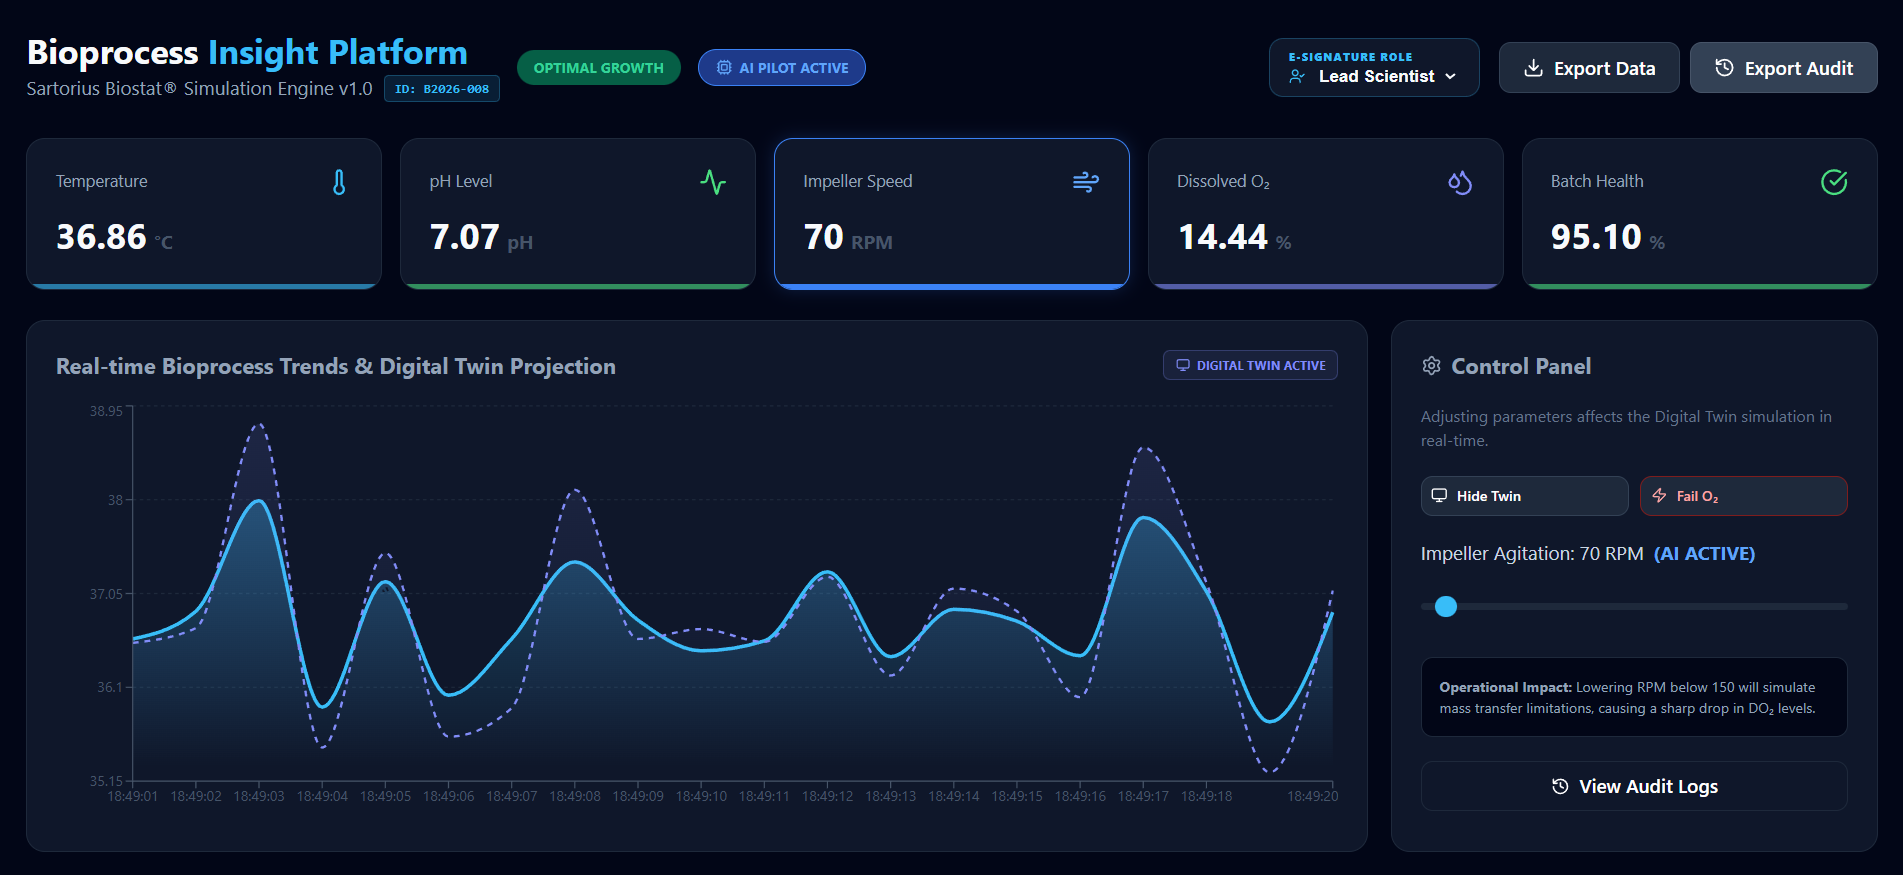
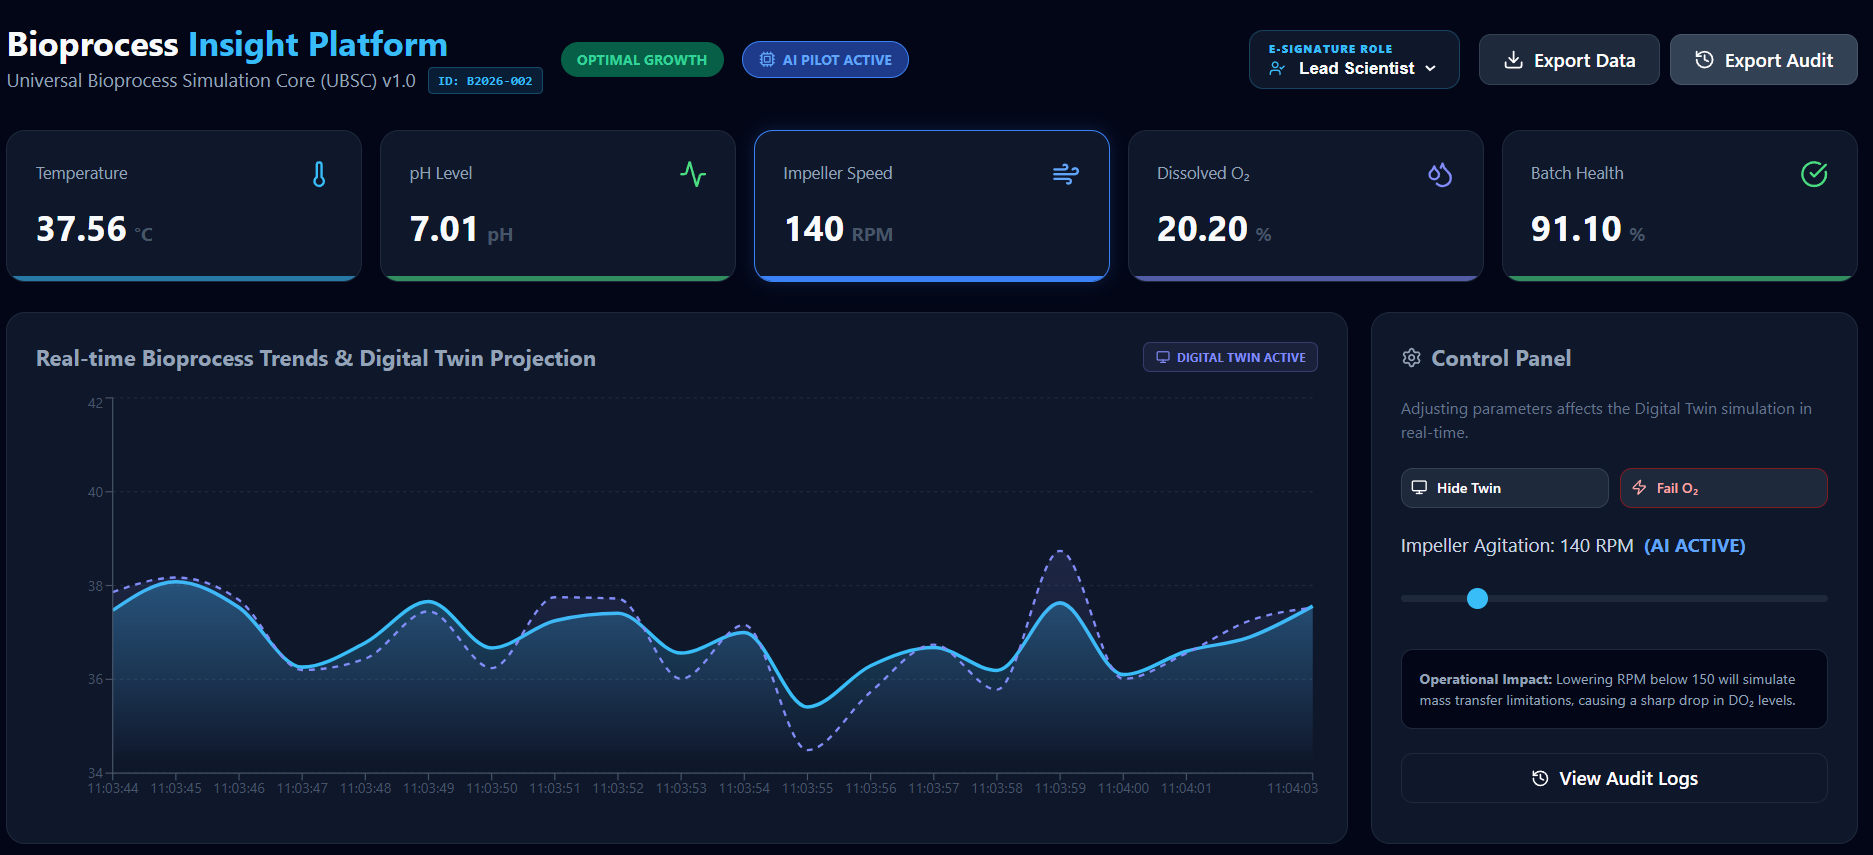
Refactor: Updated branding to UBSC v1.0

diff --git a/frontend/src/App.tsx b/frontend/src/App.tsx
@@ -199,7 +199,13 @@ function App() {
               Bioprocess <span style={{ color: '#38bdf8' }}>Insight Platform</span>
             </h1>
             <div style={{ display: 'flex', alignItems: 'center', gap: '10px', marginTop: '4px' }}>
-              <p style={{ color: '#94a3b8', margin: 0 }}>Sartorius Biostat® Simulation Engine v1.0</p>
+              <p style={{ color: '#94a3b8', margin: 0 }}>Universal Bioprocess Simulation Core (UBSC) v1.0</p>
+                {/** * UBSC ENGINE v1.0
+                * ---------------------------------------------------------
+                * A vendor-agnostic HMI (Human Machine Interface) designed 
+                * for real-time bioprocess monitoring and digital twin 
+                * projection. Integrates GxP-compliant audit logging.
+                */}
               {/* BATCH IDENTIFIER: Dynamically displays the current production run ID */}
               {latest?.batch_id && (
                 <span style={{ 

diff --git a/README.md b/README.md
@@ -3,7 +3,7 @@
 **A Real-time Bioreactor Monitoring Dashboard for Industrial Fermentation**
 
 ## 🧪 Project Overview
-This platform simulates a live connection to a **Sartorius Biostat®** controller, providing real-time data visualization and automated anomaly detection for critical process parameters (CPPs). It utilizes a **Triad Microservice Architecture** to bridge the gap between historical data, AI-driven automation, and live operational compliance.
+This platform simulates a live connection to an **Industrial Bioreactor Controller**, providing real-time data visualization and automated anomaly detection for critical process parameters (CPPs). It utilizes a **Triad Microservice Architecture** to bridge the gap between historical data, AI-driven automation, and live operational compliance.
 
 ---
 ## 📈 Business & Operational Impact
@@ -49,7 +49,7 @@ This system utilizes a **Decoupled Triad Architecture**:
 
 2. **Digital Twin Engine (Python/FastAPI):** Handles high-frequency mathematical projections, **AI Pilot** automated correction logic, and physics-based simulations (Oxygen Transfer Rate). The "SCADA" layer—handles high-frequency mathematical projections and Digital Twin logic.
 
-3. **Compliance Service (.NET 10/C#):** An independent audit microservice that records **immutable** logs of all operator interactions (21 CFR Part 11). The "Compliance" layer—ensures all interactions are logged for regulatory review.
+3. **Compliance Service (.NET 8/C#):** An independent audit microservice that records **immutable** logs of all operator interactions (21 CFR Part 11). The "Compliance" layer—ensures all interactions are logged for regulatory review.
 
 ![Bioprocess Insight Platform (BIP) Preview](./assets/bioprocess-system-architecture-diagram.png)
 
@@ -87,7 +87,7 @@ This system utilizes a **Decoupled Triad Architecture**:
 
 ### 🛡 Compliance, Data Integrity & Digital Signature
 * **Role-Based E-Signatures:** Operators can switch between roles (Lead Scientist, Lab Tech, QA Auditor). Every action is digitally signed and attributed to the active role in the Audit Trail.
-* **Immutable GxP Audit Trail:** Integrated **.NET 10 microservice** (Powered by .NET 10) that records immutable logs capturing Setpoint changes, Anomaly injections, and Data exports with millisecond-precision timestamps ensuring 21 CFR Part 11 compliance.
+* **Immutable GxP Audit Trail:** Integrated **.NET 8 microservice** (Powered by .NET 8) that records immutable logs capturing Setpoint changes, Anomaly injections, and Data exports with millisecond-precision timestamps ensuring 21 CFR Part 11 compliance.
 * **Data Portability:** Secure one-click CSV export engine for generating full batch historical reports for offline analysis.
 * **21 CFR Part 11 Exports:** Features a dedicated Audit Export engine that generates CSV "receipts" of all verified interactions.
 
@@ -148,7 +148,7 @@ docker-compose up --build
 
 ## 🚦 Getting Started (Local Development)
 
-To run the full suite locally, you must have **Python 3.10+**, **Node 22**, and the **.NET 8/10 SDK** installed.
+To run the full suite locally, you must have **Python 3.10+**, **Node 22**, and the **.NET 8 SDK** installed.
 
 ### 1. Environment Configuration
 Create a file named ``.env.local`` in the ``/frontend`` directory:
@@ -187,6 +187,7 @@ npm run dev
 ### 3. Code Standards & Quality
 - **Type Safety:** Utilizes strict TypeScript interfaces for multivariate sensor data.
 - **Environment Awareness:** Implemented dynamic API routing to switch between `localhost` and `production` cloud endpoints automatically.
+- **Strict Type Mapping:** Integrated shared TypeScript interfaces and C# DTOs (Data Transfer Objects) to ensure telemetry data maintains 100% schema integrity as it travels through the Triad.
 
 
 ### 4. 🌐 Local Access
@@ -255,14 +256,14 @@ One of the primary challenges was managing two distinct environments (Python/Fas
 To ensure the Python engine works identically in local venv and a Docker container, I implemented a robust path resolution logic using `os.path.abspath(__file__)`. This allows the engine to locate the `bioreactor-yields.csv` within its own service directory, satisfying the **Twelve-Factor App** principle of a self-contained service and solving the common "Docker Build Context" isolation issue.
 
 ### 3. Real-Time Data Simulation
-To mimic a live Biostat® controller without having a physical bioreactor connected, I implemented a global index tracker in FastAPI.
+To mimic a live Industrial PLC (Programmable Logic Controller) without having a physical bioreactor connected, I implemented a global index tracker in FastAPI.
 - **Logic:** The API iterates through historical CSV rows on every request, calculates "derived metrics" (Health Score) on the fly, and loops back to the start, providing a continuous "live" data stream for the frontend to consume.
 
 ### 4. Cross-Origin Resource Sharing (CORS) in a Triad Architecture
 Managing three independent services (React on `:5173`, FastAPI on `:8000`, and .NET on `:5197`) presented a significant CORS challenge. 
 - **Solution:** Configured the FastAPI `CORSMiddleware` and the .NET `UseCors` policy to specifically whitelist the frontend origin. This ensures secure, authenticated communication across the different ports of the "Triad."
 
-### 5. Distributed Transaction Simulation for GxP: > 
+### 5. Distributed Transaction Simulation for GxP:
 Implemented a **Synchronous Hook** pattern in the React HMI. To ensure 21 CFR Part 11 integrity, every POST request to the Python Control Engine is paired with a concurrent POST to the .NET Audit Service. This ensures that a setpoint change never occurs without a corresponding immutable log entry.
 
 ### 6. Real-Time Data Synchronization & Physics Simulation
@@ -271,7 +272,7 @@ To move beyond static playback, I needed the HMI to reflect real-world physics (
 
 ### 7. Dynamic Visual Feedback for Operator Safety
 Implementing "At-a-glance" observability required the HMI to translate complex health scores into immediate visual cues.
-- **Solution:** Developed a conditional CSS engine that monitors the `health_score`. When the score drops below 70%, it dynamically applies a `critical-pulse` keyframe animation to the status badge, mimicking the physical LED alarm towers found on industrial Biostat® controllers.
+- **Solution:** Developed a conditional CSS engine that monitors the `health_score`. When the score drops below 70%, it dynamically applies a `critical-pulse` keyframe animation to the status badge, mimicking physical Industrial Signal Towers (Andon lights).
 
 ---
 
@@ -300,7 +301,7 @@ The platform features a **Digital Twin** layer that uses a moving-window linear 
 $$T_{pred} = T_{curr} + \left(\frac{T_{curr} - T_{prev}}{\Delta t}\right) \times 60$$
 
 
-### 4. Closed-Loop Simulation (Oxygen Transfer)
+### 5. Closed-Loop Simulation (Oxygen Transfer)
 To simulate real-world physics, the platform links Impeller Agitation ($RPM$) to Dissolved Oxygen ($DO_2$):
 
 $$DO_2 \approx \left(\frac{RPM_{manual}}{300}\right) \times DO_{2,historical}$$
@@ -317,7 +318,7 @@ This allows the Digital Twin to react dynamically when an operator adjusts the s
 
 ```Plaintext
 ├── backend/               # FastAPI Server, AI Pilot & Digital Twin Logic
-├── AuditService/          # .NET 10 Compliance & Audit Microservice
+├── AuditService/          # .NET 8 Compliance & Audit Microservice
 ├── frontend/              # React/TypeScript HMI & Dashboard
 ├── data/                  # Source CSV files (bioreactor-yields.csv)
 ├── docker-compose.yml     # Multi-service orchestrator
